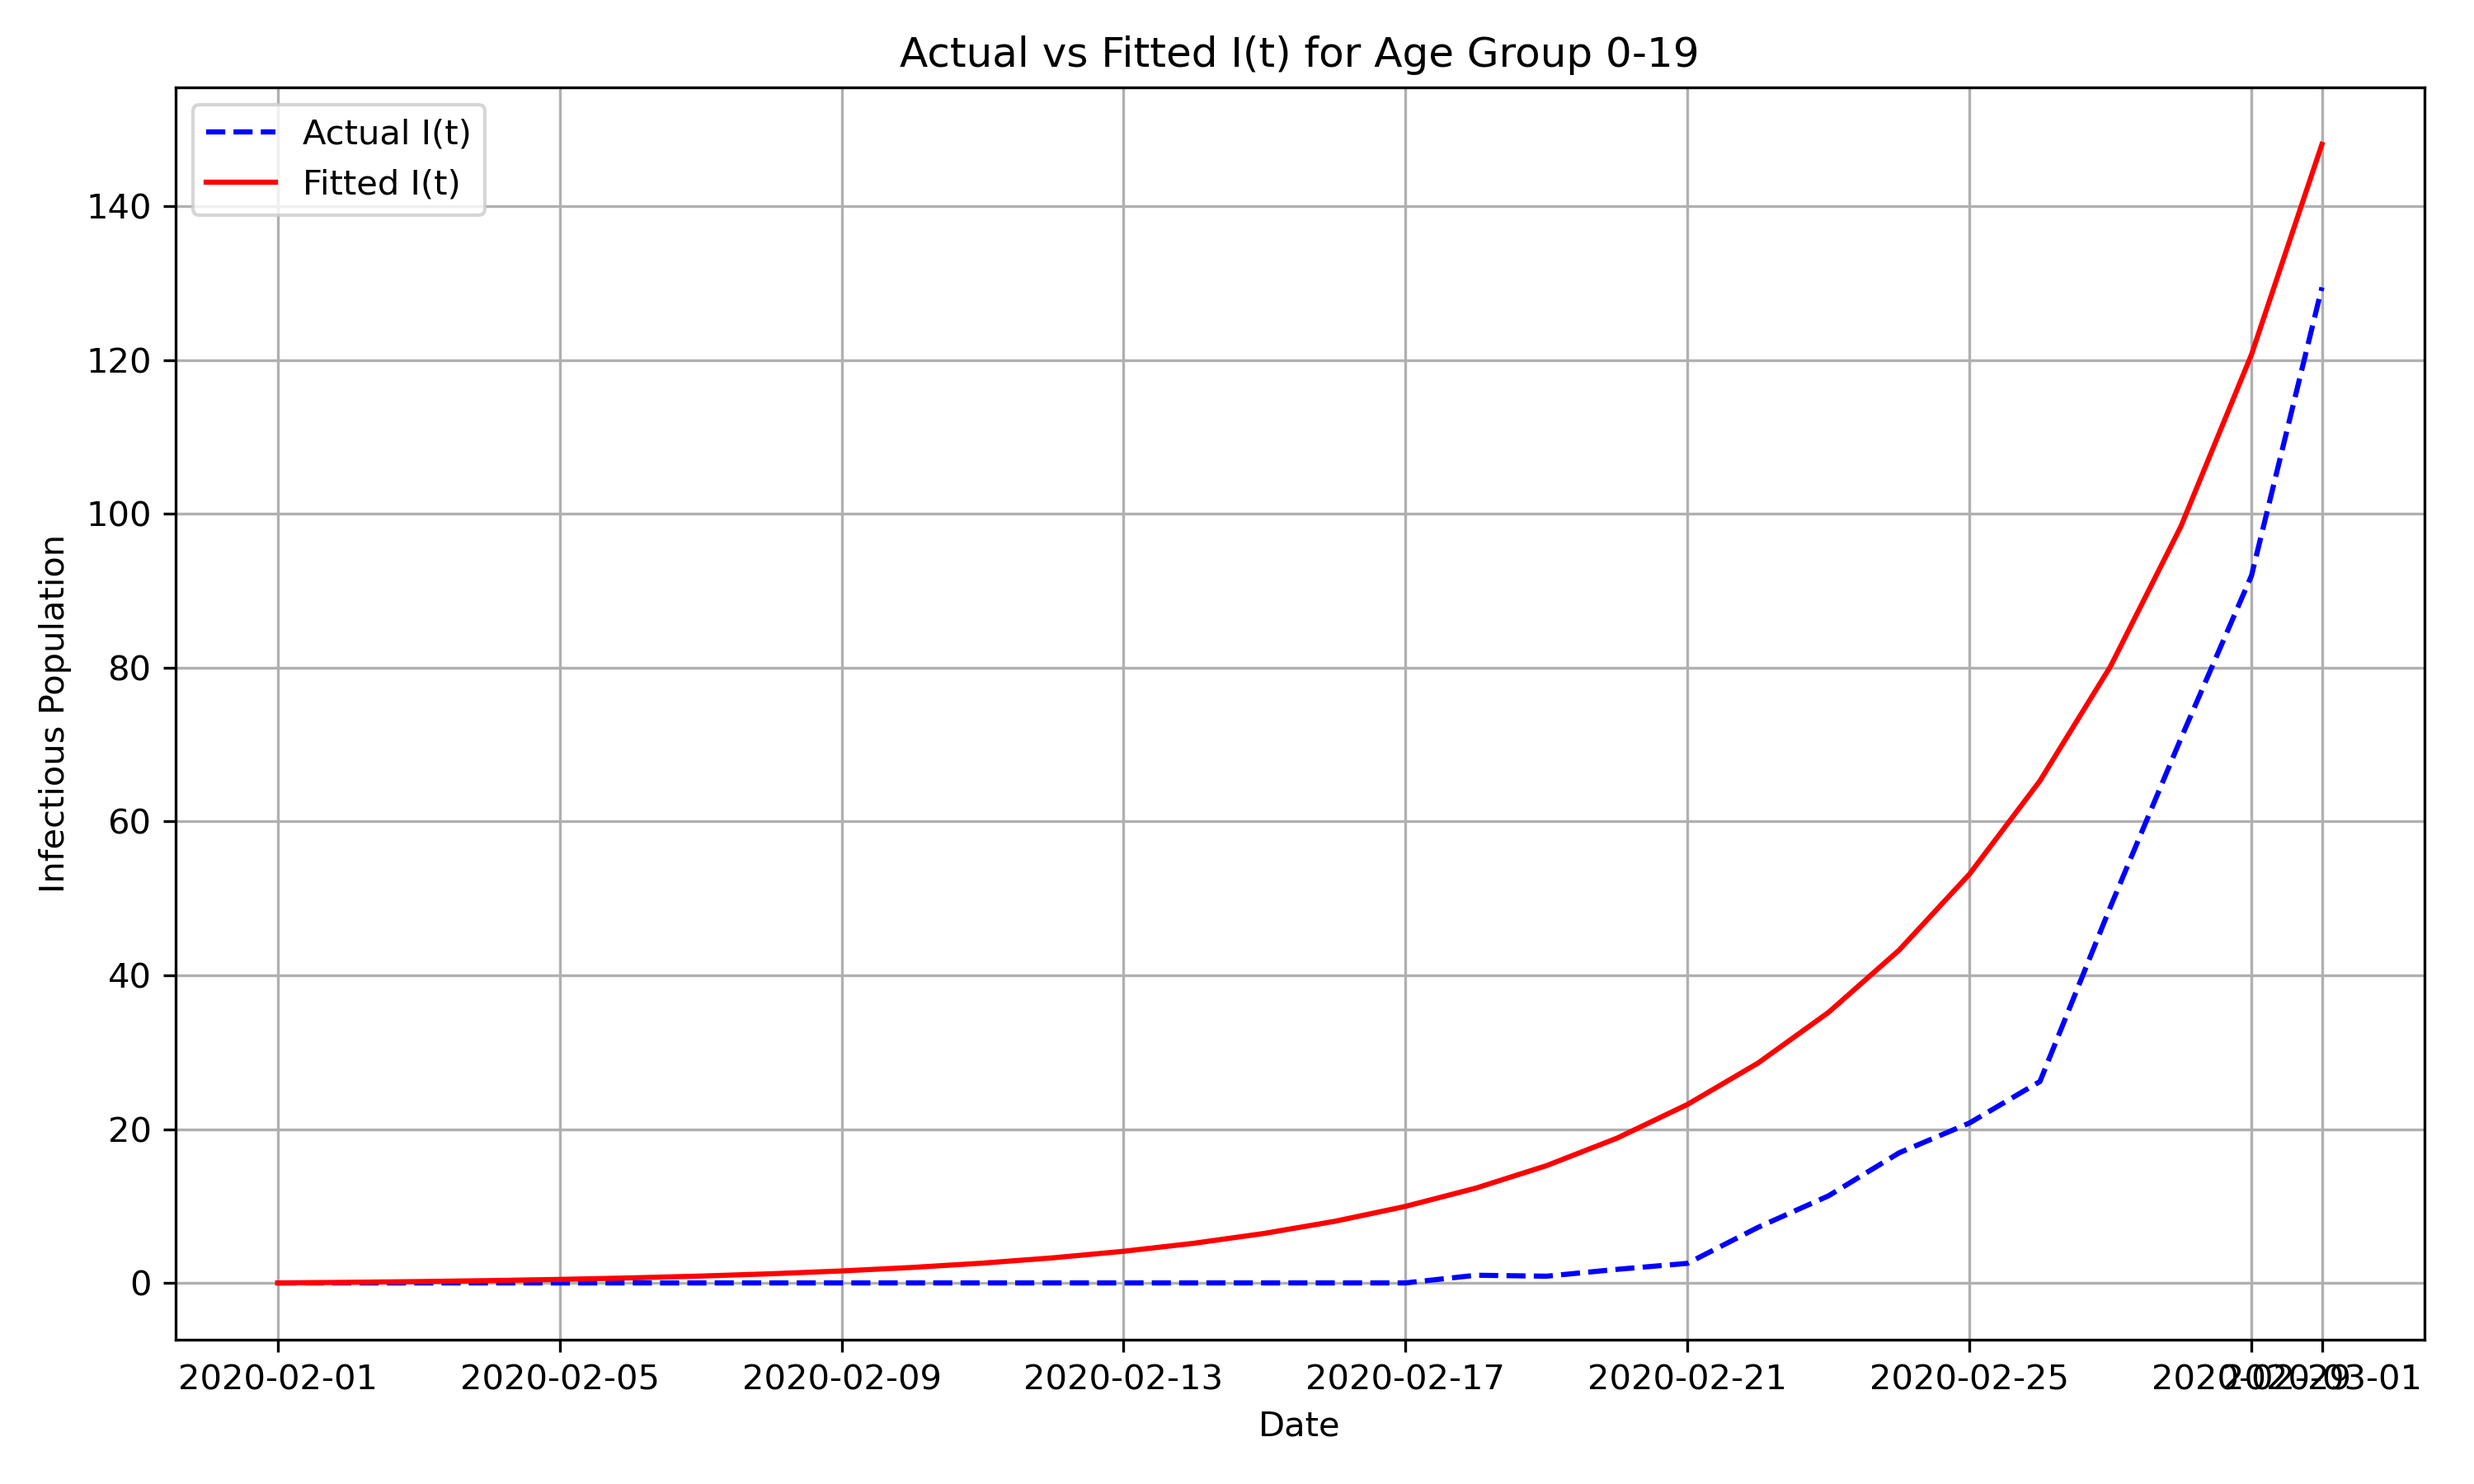
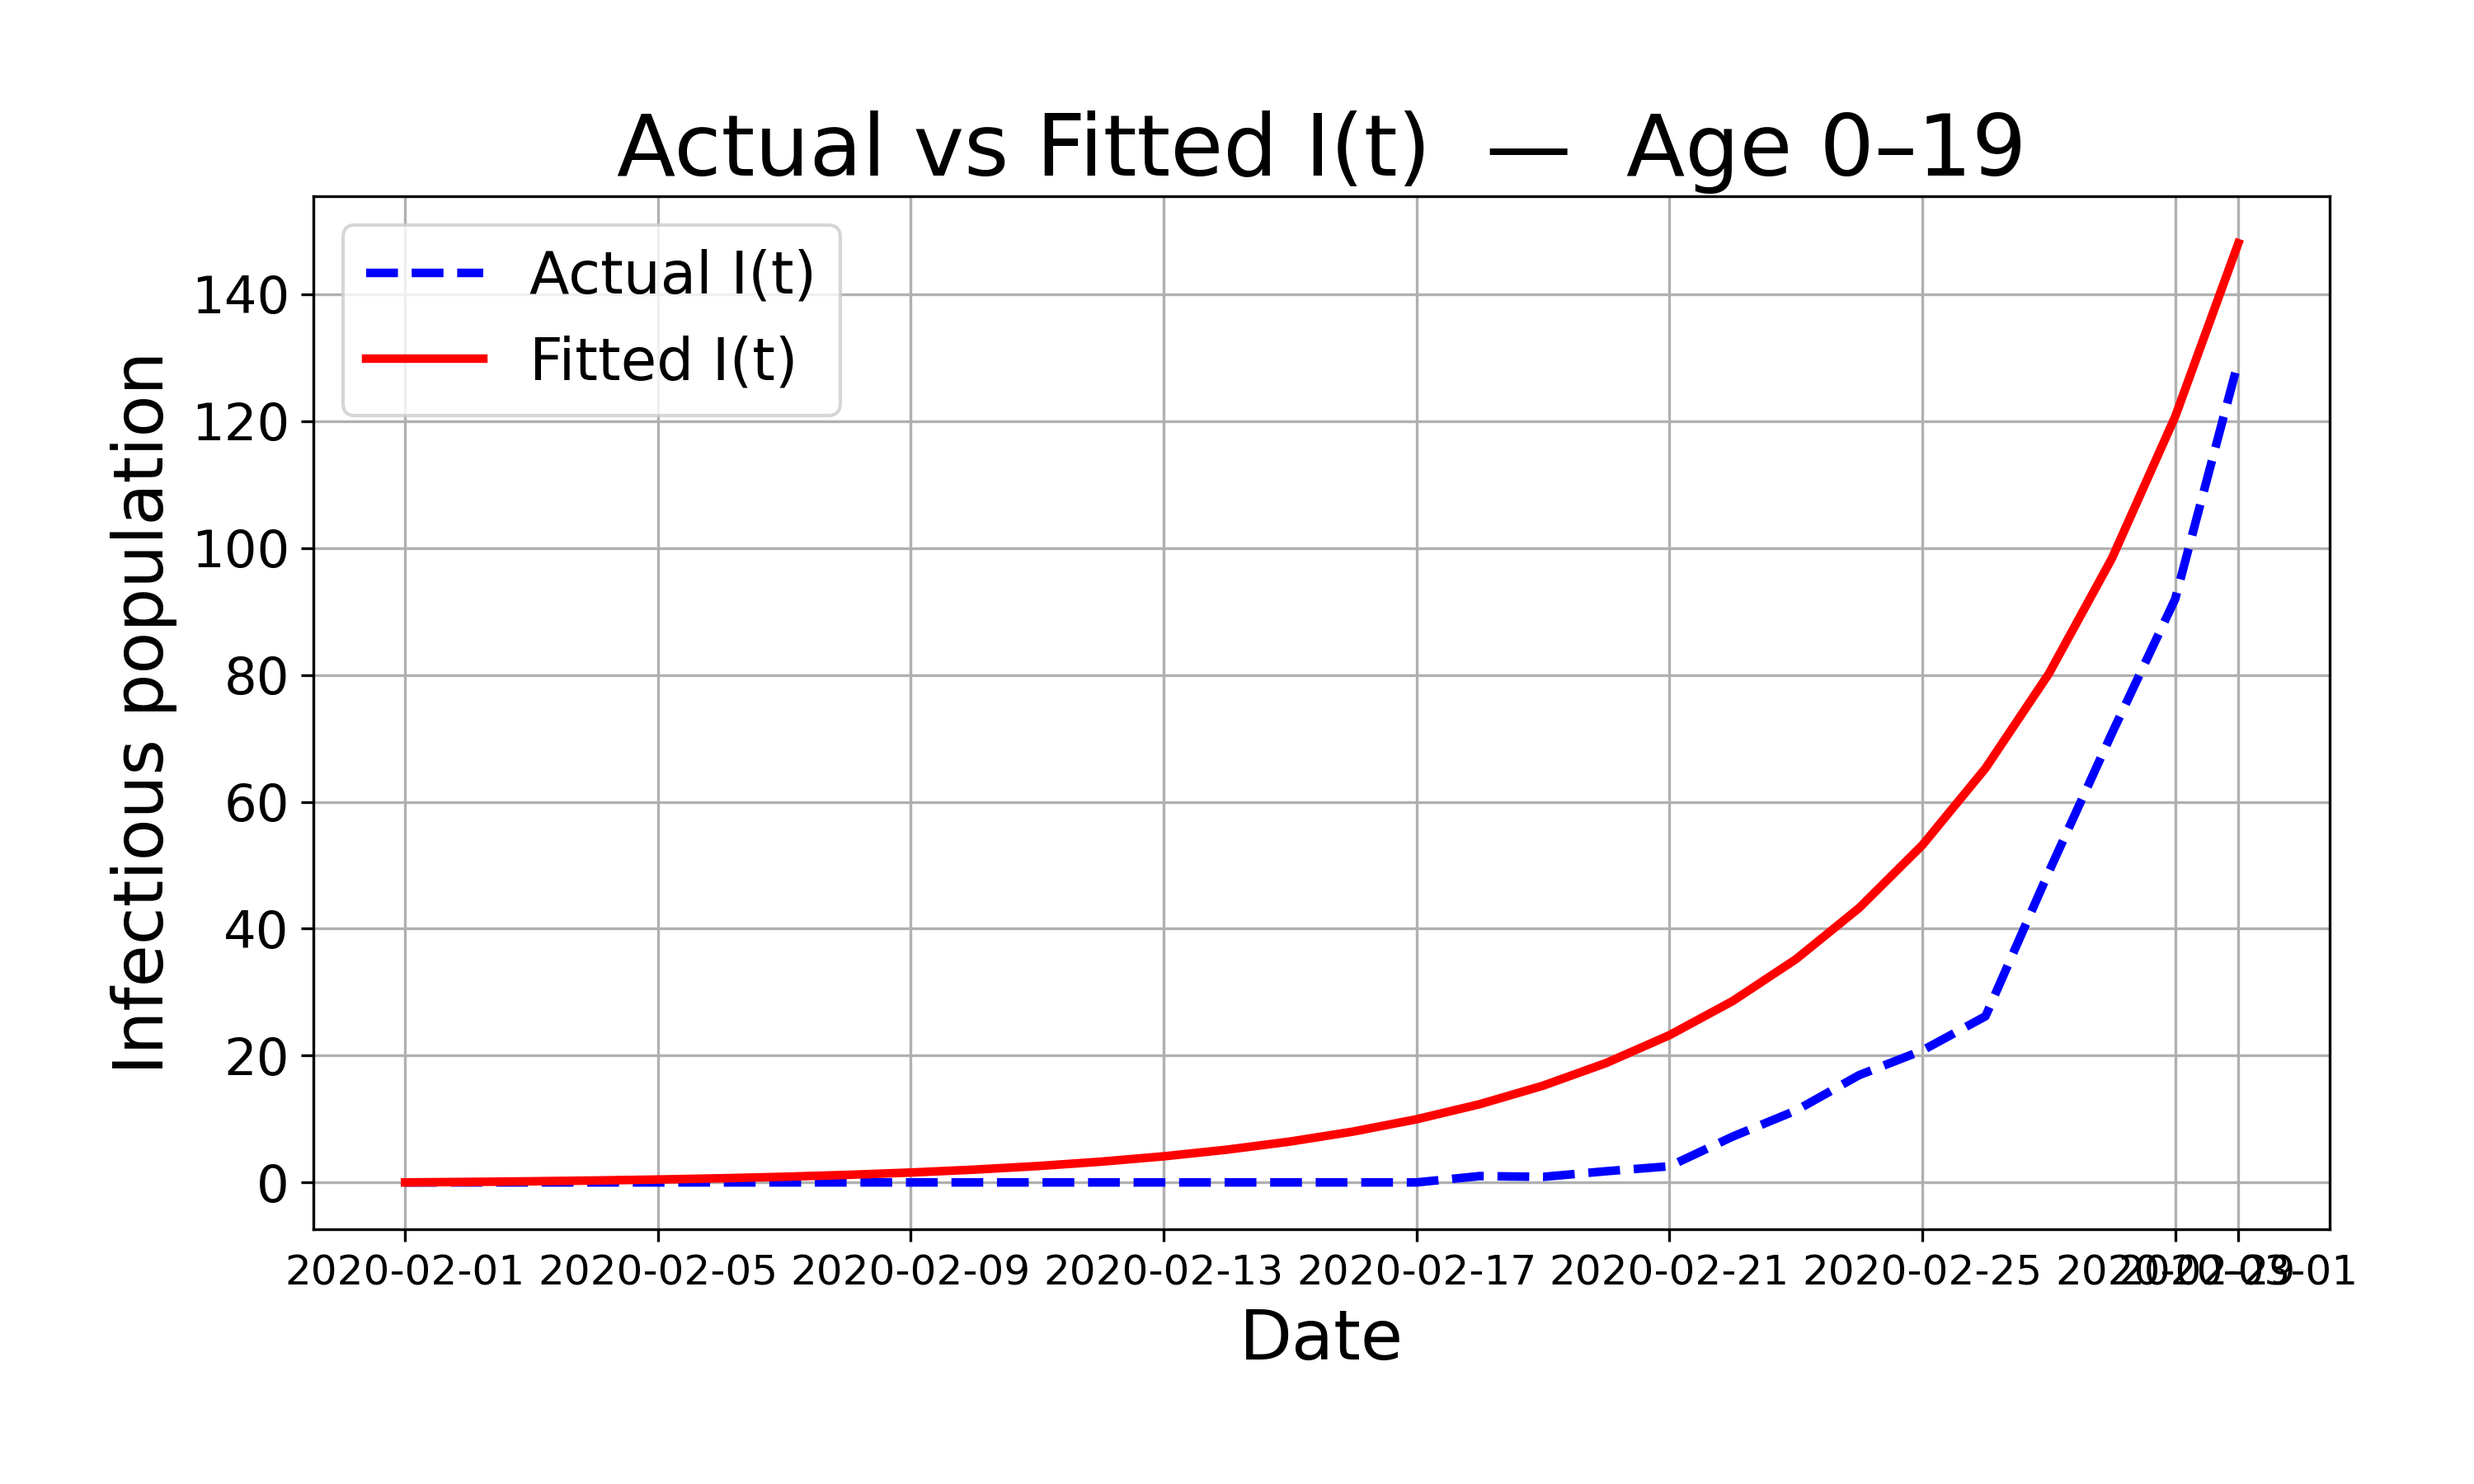
MAY14-01

diff --git a/Mathematical Modeling/Thesis modeling - epidemics and politics of public health/(3.1-4)Transmission Matrix-parameter fitting.py b/Mathematical Modeling/Thesis modeling - epidemics and politics of public health/(3.1-4)Transmission Matrix-parameter fitting.py
@@ -106,6 +106,7 @@ result = minimize(objective, initial_beta.flatten(), method='L-BFGS-B', bounds=b
 if result.success:
     optimal_beta = result.x.reshape((3, 3))
     print("Optimization Successful!")
+    print(optimal_beta)
 else:
     print("Optimization Failed:", result.message)
     exit()
@@ -120,51 +121,89 @@ t = range(len(fit_data))
 fitted_result = odeint(sirv_model, y0, t, args=(optimal_beta, gamma, a, delta))
 I_fitted = fitted_result[:, [1, 5, 9]]
 
-# Step 7: Plot Results for Each Age Group and Save Figures
+
+# ------------------------------------------------------------------
+# ►  GLOBAL PLOTTING STYLE  ◄
+#   (place right after `import matplotlib.pyplot as plt`)
+# ------------------------------------------------------------------
+plt.rcParams.update({
+    "figure.figsize"  : (6.4, 4.8),   # default literal size in inches
+    "savefig.dpi"     : 300,          # high-resolution output
+    "figure.dpi"      : 150,          # screen / notebook preview
+    "font.size"       : 30,           # main text in each panel
+    "axes.titlesize"  : 25,
+    "axes.labelsize"  : 20,
+    "xtick.labelsize" : 12,
+    "ytick.labelsize" : 15,
+    "legend.fontsize" : 17,
+    "lines.linewidth" : 2.5,
+    "pdf.fonttype"    : 42,           # embed fonts (good for LaTeX)
+    "ps.fonttype"     : 42
+})
+
+
+# ------------------------------------------------------------------
+# Step 7 :  Individual-age-group panels  (title shows “50+”)
+# ------------------------------------------------------------------
+title_map = {'0-19': '0–19',
+             '20-49': '20–49',
+             '50-80+': '50+'}                    # only the title text changes
+
 for idx, age_group in enumerate(age_groups):
     plt.figure(figsize=(10, 6))
-    plt.plot(fit_data['Date'], fit_data[f'I_{age_group}'], label='Actual I(t)', color='blue', linestyle='--')
-    plt.plot(fit_data['Date'], I_fitted[:, idx], label='Fitted I(t)', color='red')
-    plt.title(f"Actual vs Fitted I(t) for Age Group {age_group}")
+    plt.plot(fit_data['Date'],
+             fit_data[f'I_{age_group}'],
+             label='Actual I(t)', color='blue', linestyle='--')
+    plt.plot(fit_data['Date'],
+             I_fitted[:, idx],
+             label='Fitted I(t)', color='red')
+
+    plt.title(f"Actual vs Fitted I(t)  —  Age {title_map[age_group]}")
     plt.xlabel("Date")
-    plt.ylabel("Infectious Population")
+    plt.ylabel("Infectious population")
     plt.legend()
-    plt.grid()
+    plt.grid(True)
     plt.tight_layout()
-    
-    # Save the figure to the Figures directory
-    save_path = os.path.join(fig_dir, f"Actual_vs_Fitted_I_{age_group.replace('-', '_')}.png")
+
+    # keep the original filename unchanged
+    save_path = os.path.join(fig_dir,
+                             f"Actual_vs_Fitted_I_{age_group.replace('-', '_')}.png")
     plt.savefig(save_path, dpi=300)
     plt.show()
 
-# Step 7A: Plot Total I(t) Across All Age Groups and Save Figure
-# Calculate total I(t) from the actual data:
-total_actual_I = (
-    fit_data['I_0-19'] +
-    fit_data['I_20-49'] +
-    fit_data['I_50-80+']
-)
 
-# Calculate total I(t) from the fitted model:
-total_fitted_I = I_fitted[:, 0] + I_fitted[:, 1] + I_fitted[:, 2]
+# ------------------------------------------------------------------
+# Step 7A :  Total infectious population  (unchanged)
+# ------------------------------------------------------------------
+total_actual_I = (fit_data['I_0-19'] +
+                  fit_data['I_20-49'] +
+                  fit_data['I_50-80+'])
+
+total_fitted_I = I_fitted.sum(axis=1)
 
 plt.figure(figsize=(10, 6))
-plt.plot(fit_data['Date'], total_actual_I, label='Actual Total I(t)', color='blue', linestyle='--')
-plt.plot(fit_data['Date'], total_fitted_I, label='Fitted Total I(t)', color='red')
-plt.title("Actual vs Fitted Total Infectious (All Age Groups)")
+plt.plot(fit_data['Date'], total_actual_I,
+         label='Actual total I(t)', color='blue', linestyle='--')
+plt.plot(fit_data['Date'], total_fitted_I,
+         label='Fitted total I(t)', color='red')
+
+plt.title("Actual vs Fitted  —  Total infectious population")
 plt.xlabel("Date")
-plt.ylabel("Infectious Population")
+plt.ylabel("Infectious population")
 plt.legend()
-plt.grid()
+plt.grid(True)
 plt.tight_layout()
 
-# Save the total I(t) plot
 save_path_total = os.path.join(fig_dir, "Actual_vs_Fitted_Total_I.png")
 plt.savefig(save_path_total, dpi=300)
 plt.show()
 
-# Step 8: Save Results
+
+# ------------------------------------------------------------------
+# Step 8 :  Save fitted β-matrix  (unchanged)
+# ------------------------------------------------------------------
 output_file = 'DataSets/Fitted_Beta_Matrix.csv'
-print(optimal_beta)
-pd.DataFrame(optimal_beta, columns=age_groups, index=age_groups).to_csv(output_file, index=True)
-print(f"Fitted beta matrix saved to: {output_file}")
+pd.DataFrame(optimal_beta, columns=age_groups, index=age_groups)\
+  .to_csv(output_file, index=True)
+print("Fitted β-matrix saved to:", output_file)
+

diff --git a/Mathematical Modeling/Thesis modeling - epidemics and politics of public health/(3.3-0)Componetwise - Beta matrix sensetive analysis.py b/Mathematical Modeling/Thesis modeling - epidemics and politics of public health/(3.3-0)Componetwise - Beta matrix sensetive analysis.py
@@ -15,6 +15,20 @@ import numpy as np
 from scipy.integrate import odeint
 import matplotlib.pyplot as plt
 from scipy.signal import argrelextrema
+import matplotlib.pyplot as plt
+
+# ===================== Font-size patch (추가) =====================
+plt.rcParams.update({
+    'font.size': 20,        # 기본 폰트
+    'axes.titlesize': 20,   # 서브플롯 제목
+    'axes.labelsize': 15,   # x/y 라벨
+    'xtick.labelsize': 9,
+    'ytick.labelsize': 9,
+    'legend.fontsize': 15,    # 범례
+    'figure.titlesize': 30,
+})
+# ================================================================
+
 
 # Create "Figures" directory if it doesn't exist
 if not os.path.exists("Figures"):
@@ -150,9 +164,9 @@ def plot_component_wise_beta_reduction():
             ax.set_title(f"Reduction on {key}")
             ax.set_xlabel("Time (days)")
             ax.set_ylabel("Total Infected")
-            ax.legend(fontsize=8)
+            ax.legend(fontsize=10)
     
-    fig.suptitle(f"Total Infected Population with Component-wise {reduction_factor} β multipliers on the Matrix", fontsize=16)
+    fig.suptitle(f"Total Infected Population with Component-wise {reduction_factor} β multipliers on the Matrix", fontsize=20, fontweight='normal')
     plt.tight_layout(rect=[0, 0, 1, 0.96]) 
     # Save the figure with the reduction factor included in the file name
     filename = f"Figures/component_wise_beta_reduction_multiplier_{reduction_factor}.png"
